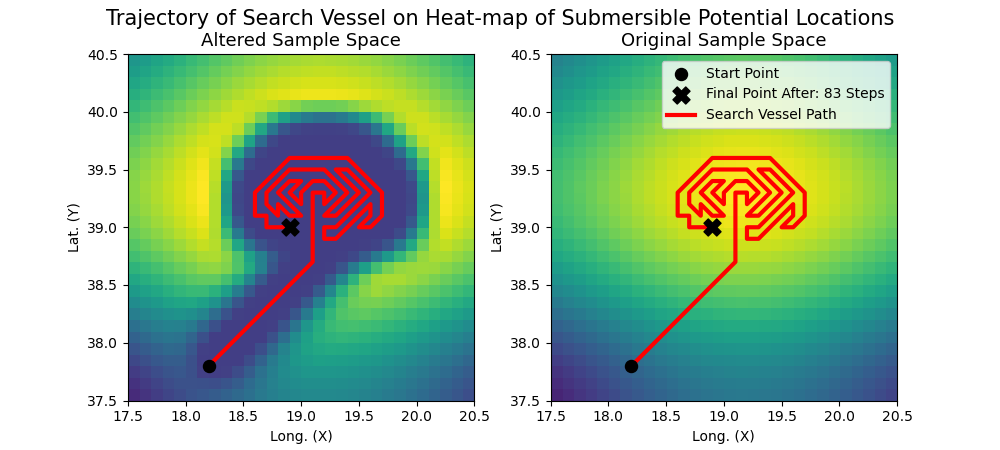
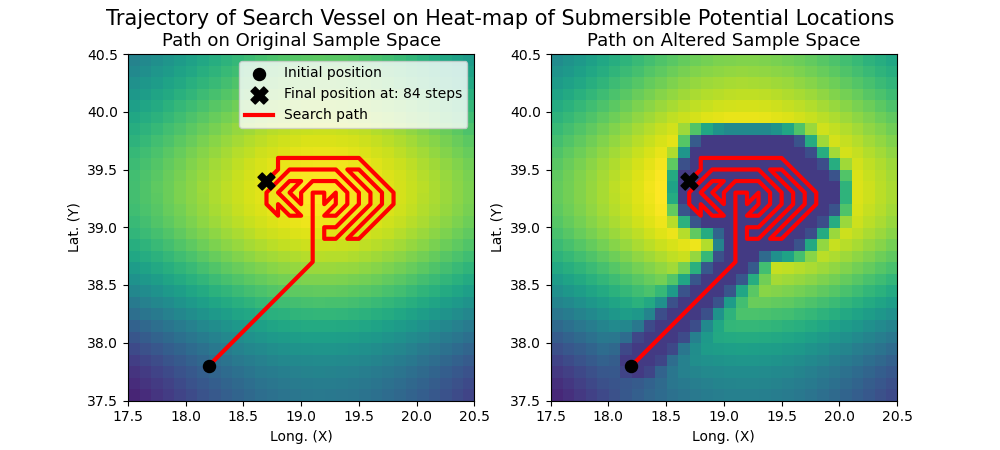
lt and lg functions

diff --git a/path_stuff/path_tester.py b/path_stuff/path_tester.py
@@ -39,7 +39,7 @@ heatmap_shape = (50, 50)
 heatmap = generate_heatmap(heatmap_shape)
 
 start_point = (12, 8)
-sonar_range = 5
+sonar_range = 3
 sonar_falloff = 2 # distance exponent factor
 
 def complete_search(k_generations, n_paths, start_point, desired_path_length, heatmap, sonar_range, sonar_falloff):
@@ -74,8 +74,8 @@ print(f"Top path heat: {heat}, total nodes visited: {len(top_path)}")
 def lt(x):
     return x*0.1 + 37
 
-def lg(y):
-    return y*0.1 + 17
+def lg(x):
+    return x*0.1 + 17
 
 # Plot the heatmap and the particle's path of the top 5 paths
 
@@ -85,22 +85,22 @@ heatmap = heatmap.T
 new_heatmap = new_heatmap.T
 
 # Plot the first subplot
-plt.subplot(1, 2, 2)
+plt.subplot(1, 2, 1)
 plt.xlabel('Long. (X)')
 plt.ylabel('Lat. (Y)')
-plt.title("Original Sample Space", fontsize=13)
+plt.title("Path on Original Sample Space", fontsize=13)
 plt.imshow(heatmap, interpolation='nearest', origin="lower", extent=(lg(0), lg(50), lt(0), lt(50)))
-plt.scatter(lg(start_point[0]), lt(start_point[1]), color='black', marker='.', label='Start Point', s=300, zorder=3)
-plt.scatter(lg(top_path[-1][0]), lt(top_path[-1][1]), color='black', marker='X', label=f'Final Point After: {len(top_path)} Steps', s=150, zorder=2)
-plt.plot([lg(x) for x, y in top_path], [lt(y) for x, y in top_path], color='red', label='Search Vessel Path', linewidth=3, zorder=1)
+plt.scatter(lg(start_point[0]), lt(start_point[1]), color='black', marker='.', label='Initial position', s=300, zorder=3)
+plt.scatter(lg(top_path[-1][0]), lt(top_path[-1][1]), color='black', marker='X', label=f'Final position at: {len(top_path)} steps', s=150, zorder=2)
+plt.plot([lg(x) for x, y in top_path], [lt(y) for x, y in top_path], color='red', label='Search path', linewidth=3, zorder=1)
 plt.legend()
 plt.xlim(17.5, 20.5)
 plt.ylim(37.5, 40.5)
 
 # Plot the second subplot
-plt.subplot(1, 2, 1)
+plt.subplot(1, 2, 2)
 plt.xlabel('Long. (X)')
-plt.title("Altered Sample Space", fontsize=13)
+plt.title("Path on Altered Sample Space", fontsize=13)
 plt.imshow(new_heatmap, interpolation='nearest', origin="lower", extent=(lg(0), lg(50), lt(0), lt(50)))
 plt.scatter(lg(start_point[0]), lt(start_point[1]), color='black', marker='.', label='Start Point', s=300, zorder=3)
 plt.scatter(lg(top_path[-1][0]), lt(top_path[-1][1]), color='black', marker='X', label=f'Final Point After: {len(top_path)} Steps', s=150, zorder=2)
